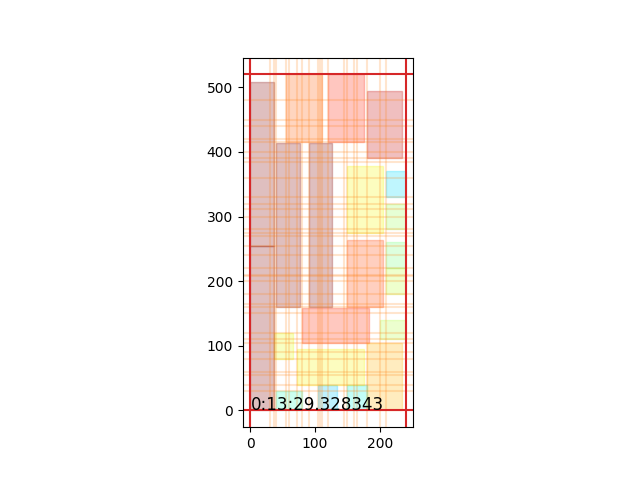
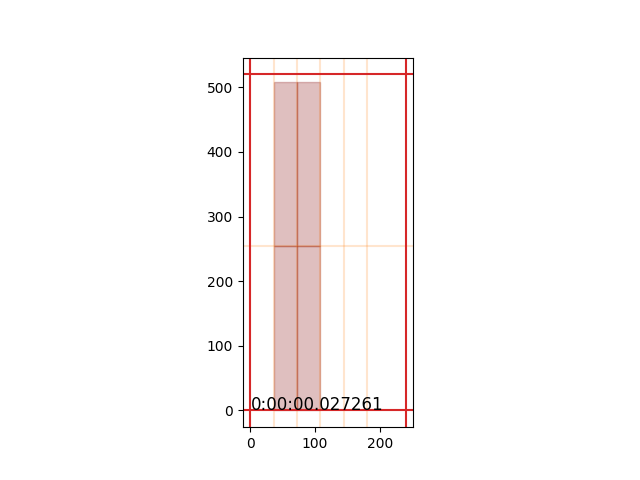
added env vars

Changed region(s): [[0.375, 0.125, 0.6562, 0.9062]]

diff --git a/config.py b/config.py
@@ -1,10 +1,12 @@
-from lib import getXorYPosters,extractPosters, filterNonFittingPosters
-ancho_muro = 240
-alto_muro = 520
-# POSTERS agregar vertical y horizontal. ((ancho, alto), cantidad)
-raw_posters_cant = [((36,254),4),((254,36),4),((104,55),8),((55,104),8),((40,30),9),((30,40),9)]
+from lib import getXorYPosters,extractPosters, filterNonFittingPosters, parsePostersInput
+import os
+
+ancho_muro = parsePostersInput(os.getenv("ANCHO","240"))[0]
+alto_muro = parsePostersInput(os.getenv("ALTO","520"))[0]
+
+# POSTERS agregar vertical y horizontal. Sintaxis =  ancho;alto#cantidad, ancho;alto#cantidad 
+raw_posters_cant = parsePostersInput(os.getenv("POSTERS","36;254#4,254;36#4,104;55#8,55;104#8,40;30#9,30;40#9"))
 posters_cant = filterNonFittingPosters(raw_posters_cant,ancho_muro,alto_muro)
 posters = extractPosters(posters_cant)
-
 anchos_posters = getXorYPosters(posters,ancho_muro,'ancho')
 altos_posters = getXorYPosters(posters,alto_muro,'alto')

diff --git a/lib.py b/lib.py
@@ -132,6 +132,21 @@ def create_rectangle(rectangle: Rectangle):
                         rectangle.height, color=color, zorder=1, alpha=0.25)
     add_shape(rec)
 
+def parsePostersInput(input):
+    parsed_1 = input.replace(' ','').split(',')
+    parsed = []
+    for triple in parsed_1:
+        splitted = triple.split('#')
+        if(len(splitted)==1):
+            parsed.append(int(splitted[0]))
+            break
+        tuple = splitted[0].split(';')
+        cant = splitted[1]
+        width = tuple[0]
+        height = tuple[1]
+        parsed.append(((int(width),int(height)),int(cant)))
+
+    return parsed
 
 def add_shape(patch):
     ax = plt.gca()

diff --git a/cuttingStock.py b/cuttingStock.py
@@ -39,9 +39,10 @@ if(path.exists("solution.sol")):
     print("###############################################")
     print("Tiempo de calculo del modelo: %s " % tiempo)
     print("Graph written in out.png")
-    os.rename("solution.sol","solution.last")
+    os.remove("solution.sol")
     print("Solution written to solution.last")
     draw("out.png",tiempo)
+    writeFile("solution.last", rectanglesToZPLQuad(rectangles))
 else:
     print("NO SOLUTION")
     if(path.exists("solution.last")):

diff --git a/onlyGraph.py b/onlyGraph.py
@@ -1,4 +1,4 @@
 from lib import parseRectangles,addRectangles,draw
-rectangles = parseRectangles("solution.txt")
+rectangles = parseRectangles("solution.last")
 addRectangles(rectangles)
 draw("out.png")
